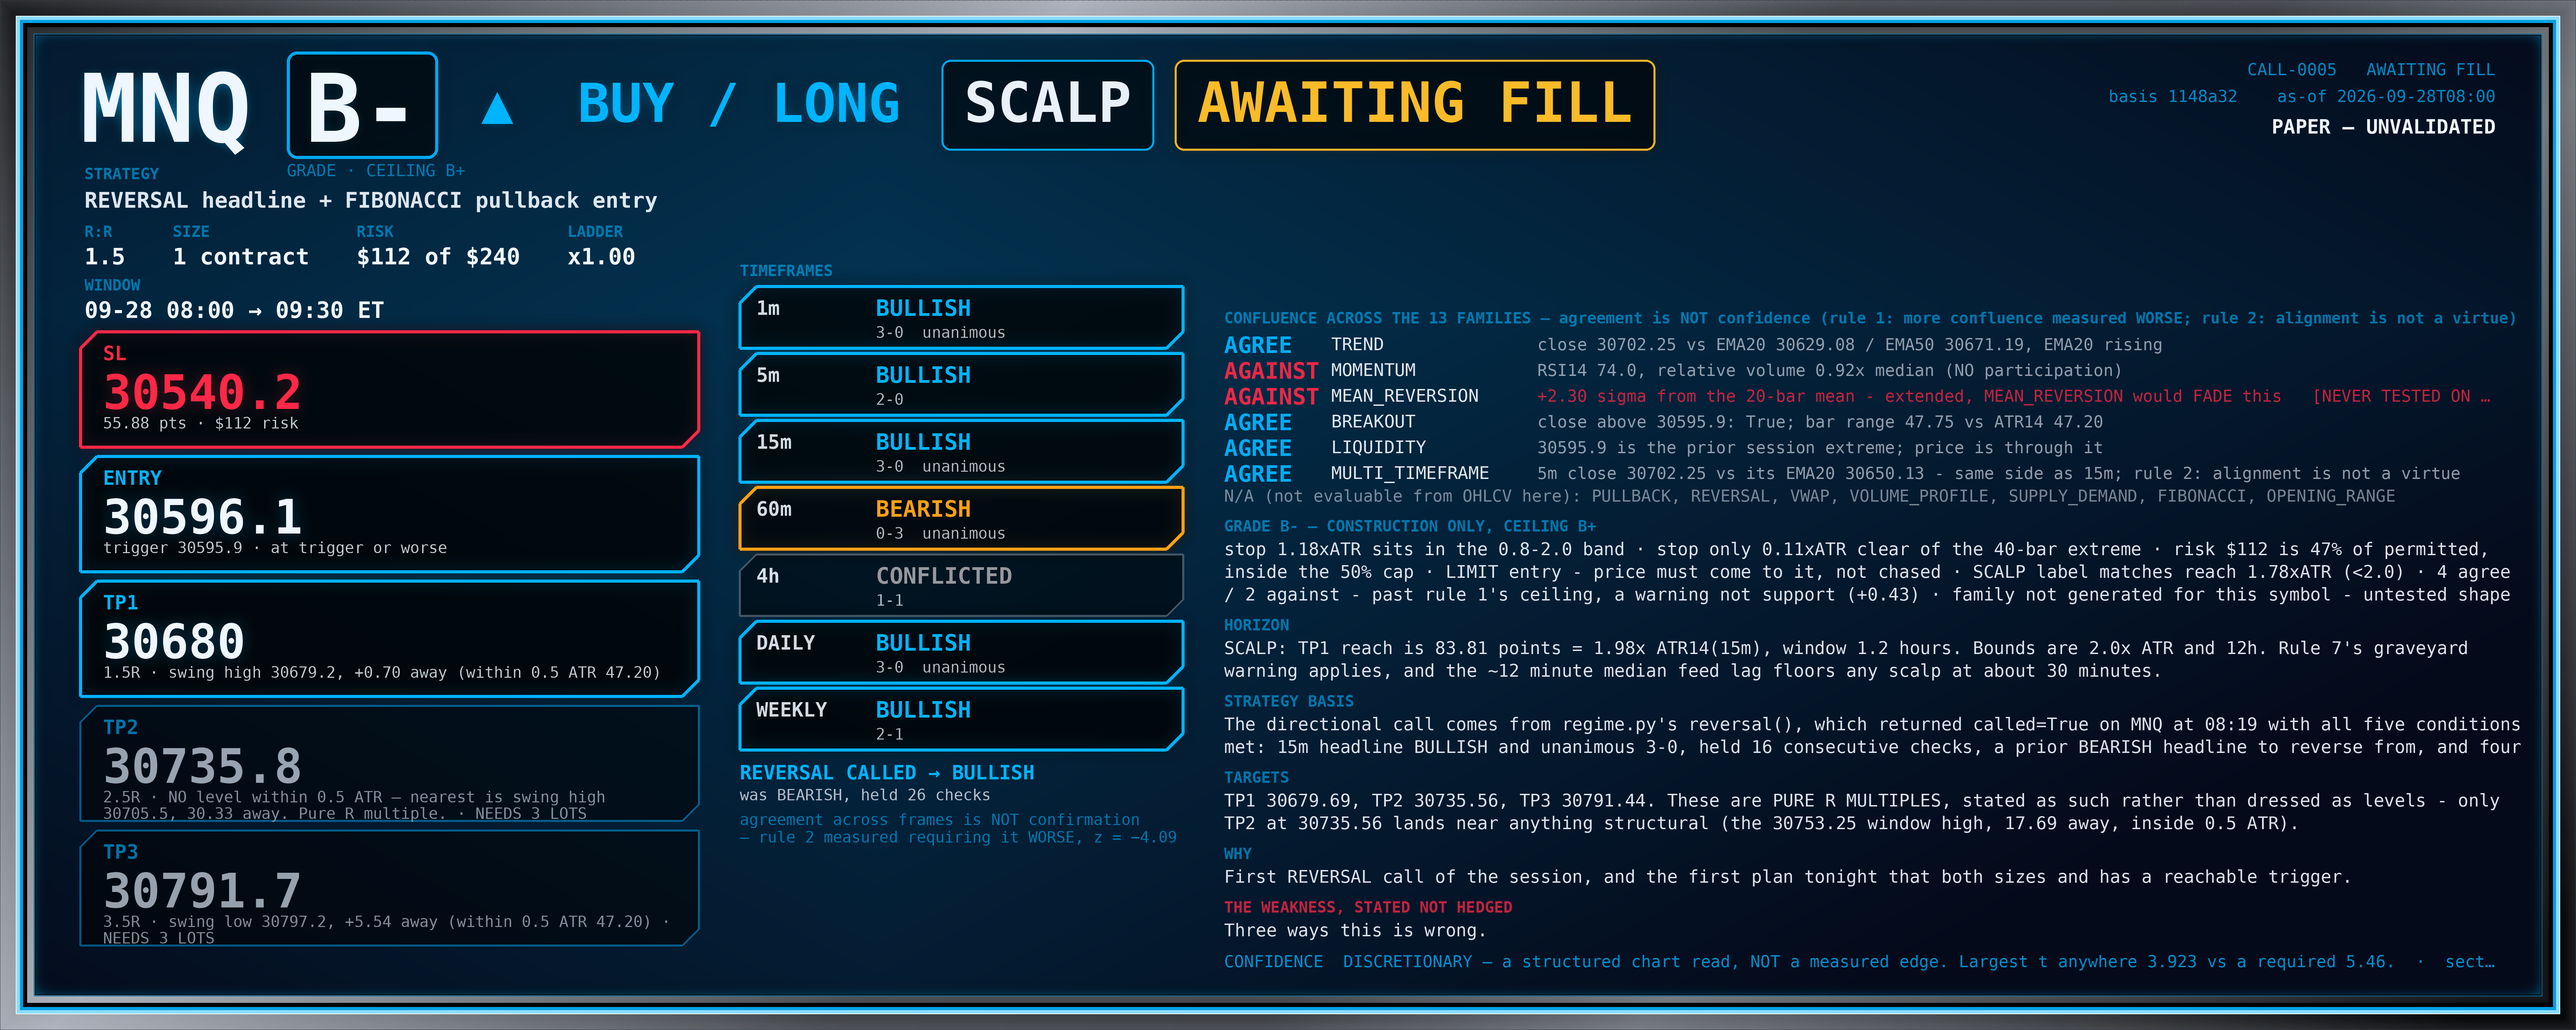
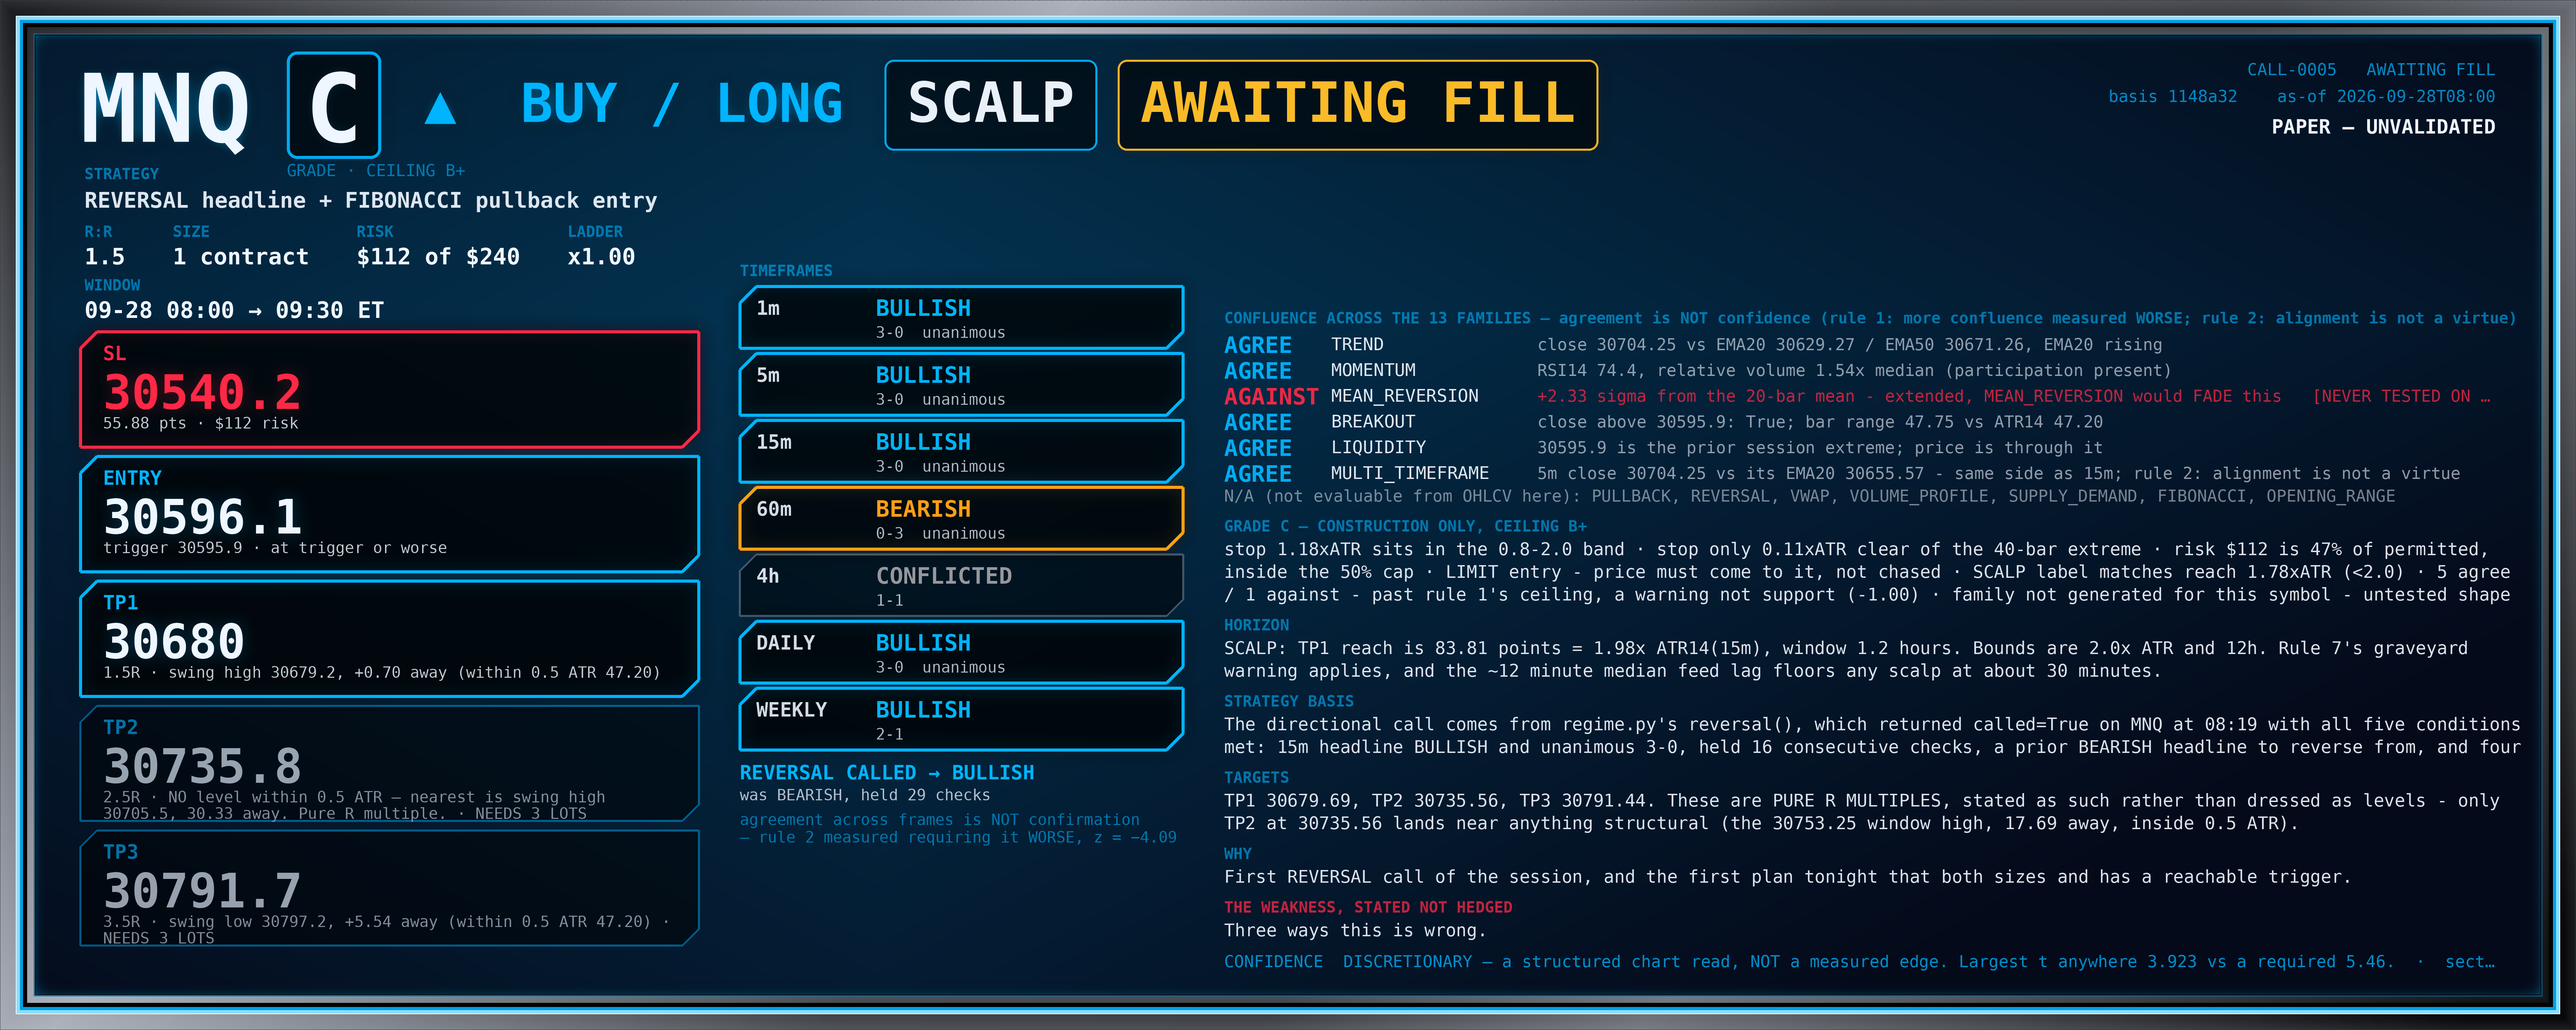
CALL desk: N153 - MGC round-trips a second time; MNQ has 1m, 5m and 15m all unanimous bullish at once
MGC's 08:15 15m bar (unsettled) is h 4203.80 l 4186.10 c 4187.80 - a 17.70-point bar at 2.16x its
8.20 ATR. It made the session high at 4203.80 and has given back 16.00 points in about fifteen
minutes. 1m back to BEARISH 0-3 unanimous, 5m CONFLICTED, trend component back to BEAR (close
below a still-falling EMA20), location 30.4% -> 20.0% of [4172.60, 4248.60].

That is MGC's SECOND complete round trip of the session. N93 recorded the first - down to 4172.60
and back to 4188.30 for a net -0.60 against the 04:00 settled close. Now it has run to 4203.80 and
come back to 4187.80. Two excursions, both fully retraced, settled close within a few points of
where it was four hours ago.

MNQ in the same window has 1m, 5m and 15m ALL unanimous BULLISH simultaneously - 3-0, 3-0, 3-0 -
for the first time on either symbol tonight. Trend BULL, structure BULL with swing lows 30547.75 ->
30610.50, location 84.2% of [30535.00, 30736.00], REVERSAL BULLISH still called with held 28. Its
60m stays BEARISH 0-3 unanimous and 4h CONFLICTED, so the disagreement with the slow frames persists.

So: MNQ is trending and MGC is oscillating. Every plan I wrote tonight was on the oscillating symbol
until CALL-0005, and the one plan on the trending symbol is the one that cannot reach its entry per
N151. An uncomfortable pairing and the honest summary of the session's callout record.

CALL-0005 remains unfilled - newest 15m low 30688.25 against the 30595.88 limit, ~92 points away -
[…]

diff --git a/workspace/paper/CALL/NOTES.md b/workspace/paper/CALL/NOTES.md
@@ -5527,3 +5527,35 @@ anything new.
 
 No new call. Three plans PENDING; ledger unchanged at open 0, closed 0, equity $50,000.00, drawdown $0.00, full
 $2,800 to the absorbing state.
+
+## N153 — MGC has round-tripped a SECOND time, and the divergence with MNQ is now unambiguous
+
+MGC's `08:15` 15m bar (unsettled): `h 4203.80 l 4186.10 c 4187.80` — a **17.70-point** bar, 2.16x its 8.20 ATR.
+It made the session high at 4203.80 and has given back **16.00 points** in about fifteen minutes. Its 1m is back
+to **BEARISH 0-3 unanimous**, its 5m to CONFLICTED 0-0, its **trend component back to BEAR** (4187.80 < EMA20
+4190.08, still falling), and location has fallen **30.4% -> 20.0%** of [4172.60, 4248.60].
+
+**This is MGC's second complete round trip of the session.** N93 recorded the first: down to 4172.60 and back to
+4188.30 for a net −0.60 against the 04:00 settled close. Now it has run to 4203.80 and come back to 4187.80.
+Two excursions, both fully retraced, and the settled close is within a few points of where it was four hours ago.
+
+**MNQ, in the same window, has all three of its fast and mid frames unanimous BULLISH simultaneously** — 1m 3-0,
+5m 3-0, 15m 3-0 — for the first time on either symbol tonight. Trend BULL (30704.25 > EMA20 30627.28, rising),
+structure BULL with swing lows `30547.75 -> 30610.50`, location **84.2%** of [30535.00, 30736.00]. **REVERSAL
+BULLISH still called, `held 28`.** Its 60m remains BEARISH 0-3 unanimous and its 4h CONFLICTED, so the
+disagreement with the slow frames persists.
+
+So the picture is clean and worth stating simply: **MNQ is trending and MGC is oscillating.** Every plan I wrote
+tonight was on the oscillating symbol until CALL-0005, and the one plan on the trending symbol is the one that
+cannot reach its entry (N151). That is an uncomfortable pairing and it is the honest summary of the session's
+callout record.
+
+**CALL-0005 remains unfilled** — the newest 15m low is 30688.25 against the 30595.88 limit, ~92 points away,
+and the prediction in N151 stands.
+
+**CALL-0002 is still not evaluated**, fifth consecutive check: MGC's newest stored 15m bar is `08:15` and
+`08:15` is not `> 08:20`. The `08:30` bar completes 08:45 and should be in hand ~08:46, which is the next check.
+
+No new call. MGC's reversal remains closed on all three counts; a 16-point fade from a session high with the 15m
+at 0-2 bearish is not a setup, and there is no pre-committed MGC method that fires on it. Three plans PENDING;
+ledger unchanged at open 0, closed 0, equity $50,000.00, drawdown $0.00.
